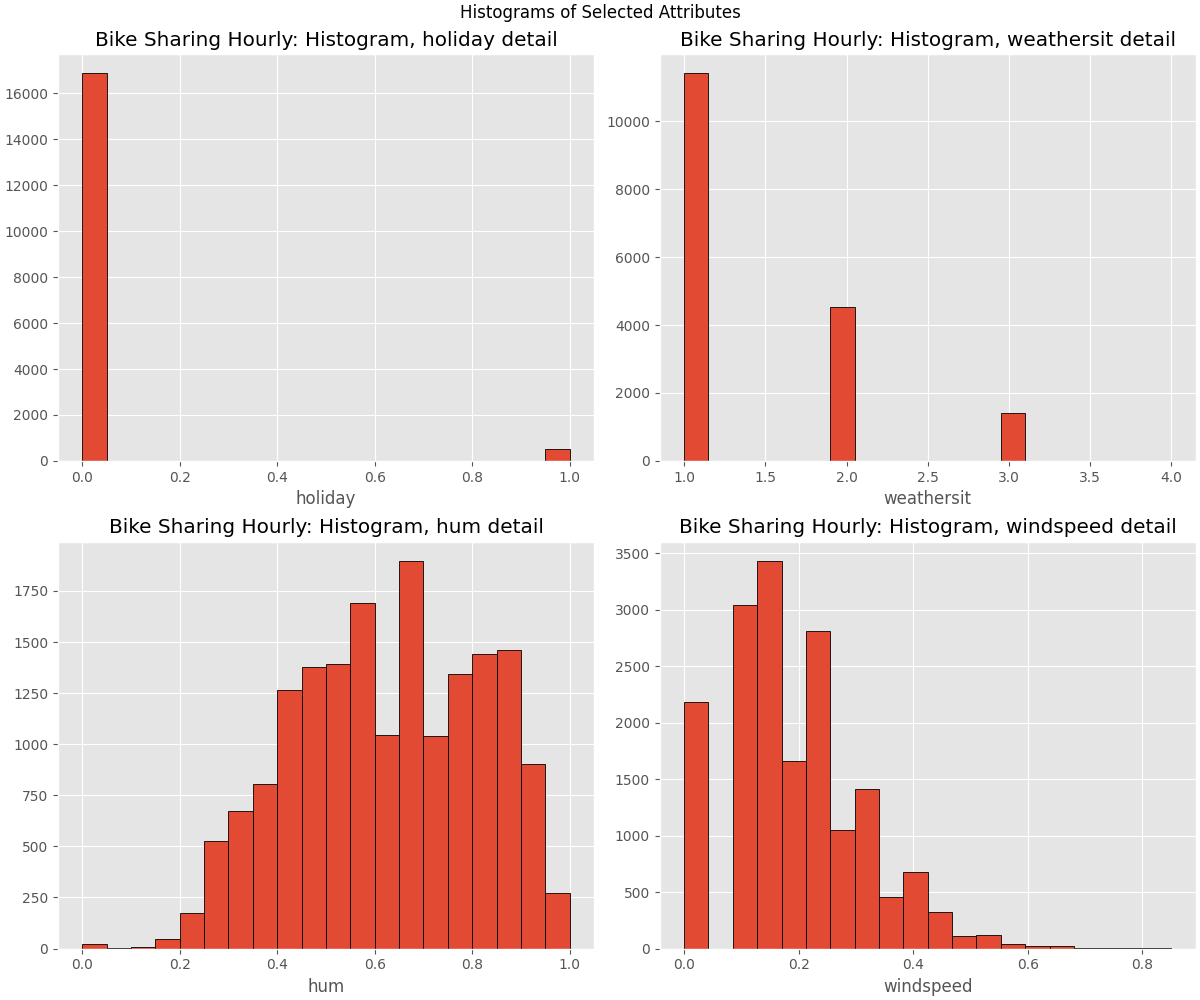
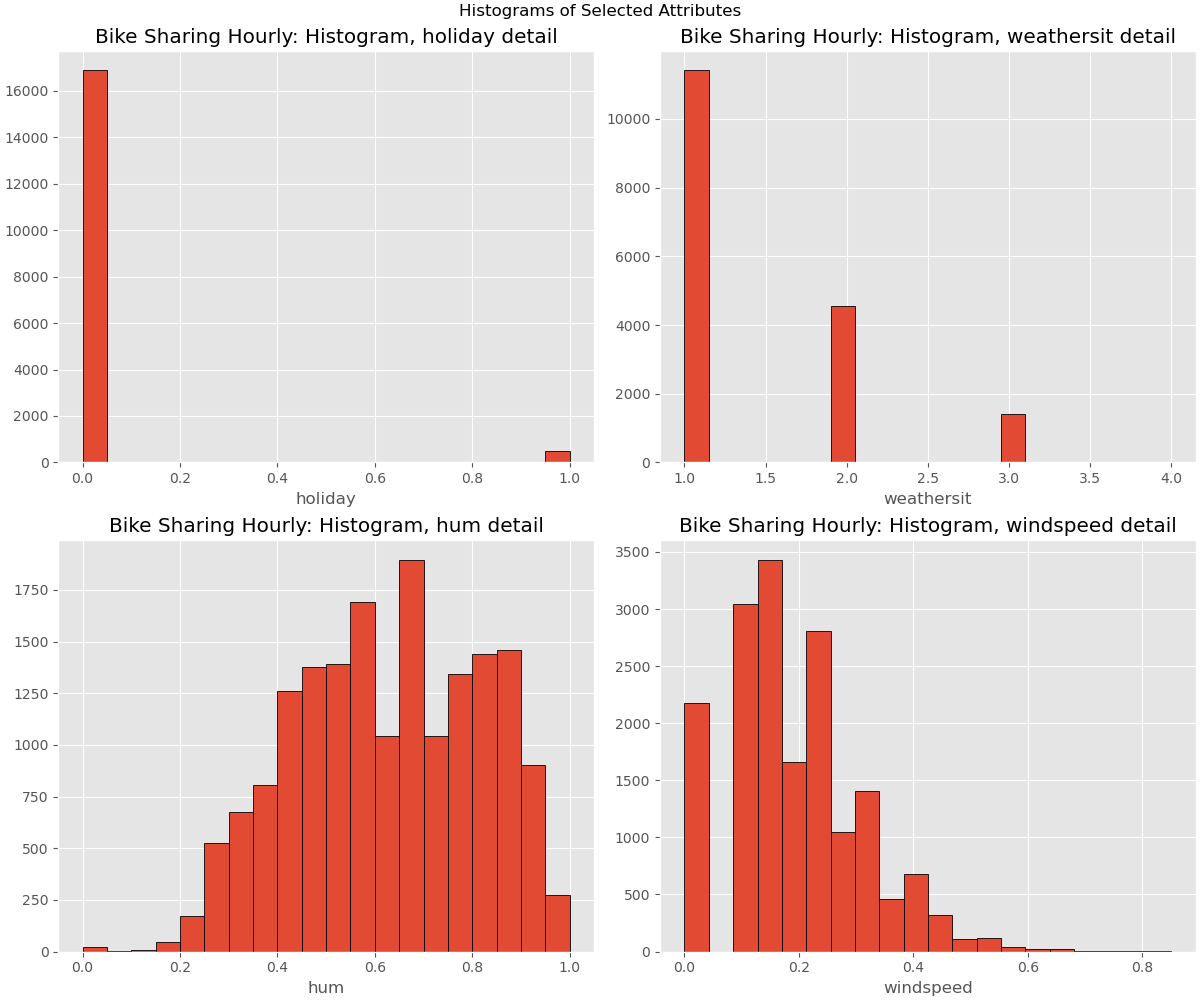
Update .tex and plots

diff --git a/main.tex b/main.tex
@@ -14,6 +14,8 @@
 \usepackage[pdftex,linkcolor=black,pdfborder={0 0 0}]{hyperref} % Format links for pdf
 \usepackage{calc} % To reset the counter in the document after title page
 \usepackage{enumitem} % Includes lists
+\usepackage{hyperref} % url
+
 
 \frenchspacing % No double spacing between sentences
 \linespread{1.2} % Set linespace
@@ -32,9 +34,8 @@
 % Set pdf information and add title, fill in the fields
 %-----------------------
 \hypersetup{ 	
-pdfsubject = {Introduction to Machine learning and Data mining},
-pdftitle = {Project 1},
-pdfauthor = {Nicolò Francesco Resmini - s231858}
+pdfsubject = {02450 - Introduction to Machine Learning and Data mining},
+pdftitle = {Project 1}
 }
 
 %-----------------------
@@ -42,7 +43,15 @@ pdfauthor = {Nicolò Francesco Resmini - s231858}
 %-----------------------
 \begin{document} 
 
+
+
 \title{Introduction to Machine learning and Data mining - Project 1} % Title
+
+
+\begin{figure}
+    \centering
+    \includegraphics[width=0.1\textwidth]{res/dtu_logo.png}
+\end{figure}
 
 % \author{Ivan Antonino Arena - s233352 \\
 %  Nathan Lacour - s232062 \\
@@ -53,60 +62,70 @@ pdfauthor = {Nicolò Francesco Resmini - s231858}
 \maketitle
 \begin{table}
 \centering
-\begin{tabular}{lllll}
- \textbf{Student} & \textbf{ID} & \textbf{§1} & \textbf{§2} & \textbf{§3} \\
- Ivan Antonino Arena & s233352 &  &  &  \\
- Nathan Lacour & s232062 &  &  &  \\
- Nicolò Francesco Resmini & s231858 &  &  & 
+\begin{tabular}{|l|c|c|c|c|c|c|}
+ \hline
+ \textbf{Student} & \textbf{ID} & \textbf{§1} & \textbf{§2} & \textbf{§3} & \textbf{§4} & \textbf{Exam quest.} \\
+ \hline
+ Ivan Antonino Arena & s233352 & 10\%  & 60\%  & 40\%  & 60\% & 33,33\%  \\
+ \hline
+ Nathan Lacour & s232062 & 40\%  & 10\%  & 0\%  & 10\%  & 33,33\%  \\
+ \hline
+ Nicolò Francesco Resmini & s231858 & 50\% & 30\%  & 60\%  & 30\%  & 33,33\% \\
+ \hline
 \end{tabular}
 \end{table}
 
 
+\pagebreak
+\tableofcontents
 
 \pagebreak
 
 \section{Dataset Description}
 
-\subsection{Introduction}
-The dataset that we selected contains data about the use of automatic rental bike; all the process is automatic as bikes are all connected to the net. Thus, it is possible to obtain a lot of interesting information about traffic (the duration of travel, starting position of the bike and its final location). Then, the rental bikes might be used as sensors that would give us knowledge about mobility in the city. \\ 
-Bike-sharing rental process is highly influenced by parameters like the weather or the time of the year.
-Hence in our data set, we know the number of bikes that was rented as well as when it was rented and additional weather related information.\\
-However, when opening the folder containing the data files, we had to choose between 2 files: \textit{day.csv} and \textit{hour.csv}, which have the same fields, except "hour" (0 to 23) which is not available in \textit{day.csv}. Regarding that, we chose to use \textit{hour.csv} since it gives us indeed more information and interesting ones, because the time of the day may strongly influence the number of rental bikes.\\
-Given the data, we will most certainly look at how the weather conditions are correlated to the number of users.
-We found the data set on the website UC Irvine (link below).\\
-\textit{https://archive.ics.uci.edu/dataset/275/bike+sharing+dataset}
+% \subsection{Introduction}
+The dataset that we selected contains data about the use of automatic rental bikes; all the processes are automatic as bikes are all connected to the net, thus it is possible to obtain a lot of interesting information about traffic (the duration of travel, starting position of the bike and its final location). Then, the rental bikes might be used as sensors that would give us knowledge about mobility in the city.
+
+Bike-sharing rental process is highly influenced by parameters like the weather conditions or the time of the year, and in our data set we know the number of bikes that have been rented as well as when they were rented and additional information about the weather.
+
+The data set is available on the UC Irvine website at the following address: \url{https://archive.ics.uci.edu/dataset/275/bike+sharing+dataset}.
+
+The provided folder contained two versions of the dataset: \textit{day.csv} and \textit{hour.csv}, which only differ from one another for the $hr$ column, representing the hour of the day, not available in \textit{day.csv}. In light of this, we chose to use \textit{hour.csv} since it provides more accurate information, as the number of bikes rented in a day might heavily depend on the hour. \\
+
 
 \subsection{Previous analysis of the data}
+The Bike Sharing Dataset has been cited in more than ten scientific papers (referred in the same webpage from which we downloaded the dataset), which clearly demonstrates its breadth and its utility in supporting high-quality research. Therefore, we picked two of those papers and read them carefully to understand how this dataset had been used by the authors in their works.
 
-The Bike Sharing Dataset has been cited in more than ten scientific papers (linked on the same webpage from which we downloaded the dataset), which clearly demonstrates its breadth and its utility in supporting high-quality research. Therefore, we picked two of those papers and read them carefully to understand how this dataset had been used by the authors in their works. \\
-The first one is “Recurrent Neural Networks for Time Series Forecasting” by G'abor Petneh'azi (2019), which presents a recurrent neural network-based time series forecasting framework covering feature engineering, feature importances, point and interval predictions, and forecast evaluation. Briefly, RNNs are essentially neural networks with memory, so they can remember things from the past, which is obviously useful for predicting time-dependent targets. Moreover, the author disregards the available weather information, and uses time-determined features only; he encodes the cyclical features (season of year, month of year, week of year, day of week and hour of day) ,through the use the sine and cosine transformations, and he creates some binary variables, which are used to indicate if the time is afternoon, working hour, holiday, working day. Finally, to perform the value forecasts (regression) he also calculates variable importances by applying two different accuracy metrics (called R2 and MDA). In the end, the author states that he reached good results, although he admits that even this 2-year hourly bike sharing dataset is way too small to exploit the capabilities of a neural network. \\
-Furthermore, the second Paper examined is “D-vine quantile regression with discrete variables” by Niklas Schallhorn, Daniel Kraus, Thomas Nagler, Claudia Czado (2017), which introduces new quantile regression (i.e. the prediction of statistical measures called conditional quantiles) approaches to handle the presence of mixed discrete-continuous data in a dataset, like ours. Indeed, for each day we have continuous covariates temperature (Celsius), wind speed (mph) and humidity (relative in \%); additionally, there is the discrete variable weather situation giving information about the overall weather with values 1 (clear to partly cloudy), 2 (misty and cloudy) and 3 (rain, snow, thunderstorm). Eventually, by applying these new methods, prediction results show some dependencies between the features like “For temperatures higher than 32 degrees Celsius, each additional degree causes a decline in bike rentals” or “Bike rentals increase up to a relative humidity of around 60\% and decrease afterwards”. \\ 
-Both these papers were really helpful to gain a deeper insight into the dataset, by making us look at the dataset from a different perspective and draw inspiration for some implementations of our project.
+The first one is “\textit{Recurrent Neural Networks for Time Series Forecasting}” by G'abor Petneh'azi (2019), which presents a recurrent neural network-based time series forecasting framework covering features engineering, features importance, points and intervals predictions, and forecast evaluations. Briefly, RNNs are essentially neural networks with memory, so they can remember things from the past, which is obviously useful for predicting time-dependent targets. Moreover, the author disregards the available weather information, and uses time-determined features only; he encodes the cyclical features (season of year, month of year, week of year, day of week and hour of day) through the use the sine and cosine transformations and he creates some binary variables, which are used to indicate if the time is afternoon, working hour, holiday, working day. 
+Finally, to perform the value forecasts (regression) he also calculates variables importance by applying two different accuracy metrics (called R2 and MDA). In the end, the author states that he has reached good results, although he admits that even this 2-year hourly bike sharing dataset is way too small to exploit the capabilities of a neural network.
 
- \subsection{Techniques}
-With these data, we might be able to establish a model to estimate how much people would rent a bike on a given day with given weathers conditions. This could indeed be useful for the people in charge of managing the city accommodations or planning events.
+The second Paper examined is “\textit{D-vine quantile regression with discrete variables}” by Niklas Schallhorn, Daniel Kraus, Thomas Nagler, Claudia Czado (2017), which introduces new quantile regression (i.e. the prediction of statistical measures called conditional quantiles) approaches to handle the presence of mixed discrete-continuous data in a dataset, like ours. In fact, for each day we have continuous covariates temperature (Celsius), wind speed (mph) and humidity (relative in \%); additionally, there is the discrete variable weather situation giving information about the overall weather with values 1 (clear to partly cloudy), 2 (misty and cloudy) and 3 (rain, snow, thunderstorm). Eventually, by applying these new methods, prediction results show some dependencies between the features like “\textit{for temperatures higher than 32 degrees Celsius, each additional degree causes a decline in bike rentals}” or “\textit{bike rentals increase up to a relative humidity of around 60\% and decrease afterwards}”. 
+
+Both these papers were really helpful to gain a deeper insight into the dataset, by making us look at the dataset from a different perspective and draw inspiration for some possible implementations of our project. \\
+
+\subsection{Techniques}
+With this data, we might be able to train a model to estimate how many people would rent a bike on a certain day with given weathers conditions. This could be useful for the people in charge of managing the city accommodations or planning events.
 
 \begin{itemize}
 
-\item Regression: \\
- 1) Input : holyday/working day?, month/season, hour,date, weather
-    Output : number of users (casual, registered or total)
-    we have only two years so month might not be good since we only have 2 time each month
+\item \textbf{Regression:} by looking at the data it appears to us that the output that fits the regression task the best would be the number of users (either casual, registered or total), since, for example, it might be useful to get information about traffic congestion in the city. Moreover, we can also use almost all the other attributes as predictors ($weekday$, $workingday$, $holiday$, $mnth$, $hr$, $weathersit$, $temp$, $atemp$, $hum$, $windspeed$). 
 
-    
-    transformation continuous ?
-    
-    \item  Classification: \\
- 1) Input : windspeed, temperature, number of users, humidity \\
-    Output : Weather
-    
- 2) Input : windspeed, temperature, number of users, humidity, weather \\
-    Output : season
-    
- 3) Input :
-    Ouput : month  \\
-    we have only two years so month might not be good since we only have 2 time each month, a better option could be the day of the weeks.
+% TODO: change weathersit with atemp??
+\item \textbf{Classification:} while it might not be the primary scope of our problem of interest, the most obvious choice at first glance would be to try to perform classification on the $weathersit$ attribute, for instance, using as features the attributes $temp$, $atemp$, $hum$, $windspeed$ and the time of the year ($mnth$ or $season$). 
+
  
+\end{itemize}
+
+\subsection{Pre-processing}
+In order to carry out these tasks, after carefully analyzing our dataset, we decided to perform some pre-processing steps, which are both helpful to perform more accurate data-visualization and fundamental for the application of the techniques in the second project of this course.\\
+Here are the solutions we opted for:
+
+\begin{itemize}
+    \item removing the useless attribute $instant$, which provides a unique integer identifier for every observation of the dataset in sequential order;
+    \item removing the attribute $yr$ (year), because it's a binary variable (0: 2011, 1:2012) and since it only represent two consecutive years we think it's negligible; 
+    \item removing the attribute $dteday$ (date) because it's redundant, since we already have the date represented through other attributes ($weekday$, $mnth$, $yr$, $season$, $holilday$, $workingday$);
+    \item applying the Square-Root transformation to the attribute $cnt$, which is the count of total rental bikes including both casual and registered, to transform it in a continuous variable (by using the \textit{sqrt} function) to perform regression on it. As it is also explained in the paper "\textit{Anchor regression: heterogeneous data meet causality}" (Rothenhausler et al., 2020), this is a common procedure and fits reasonably well the assumptions to make it valid;
+    \item removing the attributes $casual$ and $registered$, which became deprecated after the square-root transformation of $cnt$, since $cnt$ was equal to the sum of the two attributes.
 \end{itemize}
 
 
@@ -118,36 +137,61 @@ With these data, we might be able to establish a model to estimate how much peop
 
 \subsection{Attributes list}
 
+\begin{center}
+\begin{tabular}{|l|c|c|p{7cm}|}
+\hline
+\textbf{Attribute} & \textbf{Type} & \textbf{Measurement} & \textbf{Description} \\
+\hline
+instant & Discrete & Interval & Number of the observation. \\
+\hline
+dteday & Discrete & Interval & Date in YYYY-MM-DD format. \\
+\hline
+season & Discrete & Nominal & Encoded seasons (1: Winter, 2: Spring, 3: Summer, 4: Fall). \\
+\hline
+yr & Discrete & Nominal & Year (0: 2011, 1: 2012). \\
+\hline
+mnth & Discrete & Nominal & Number of the month in year. \\
+\hline
+hr & Discrete & Interval & Hour in day (24 hours). \\
+\hline
+holiday & Discrete & Nominal & 1 if day is holiday, else 0. \\
+\hline
+weekday & Discrete & Nominal & Number of day in week. \\
+\hline
+workingday & Discrete & Nominal & 1 if day is working day, else 0. \\
+\hline
+weathersit & Discrete & Ordinal & Encoded weather situation (1: Clear, Few clouds, Partly cloudy, Partly cloudy, 2: Mist + Cloudy, Mist + Broken clouds, Mist + Few clouds, Mist, 3: Light Snow, Light Rain + Thunderstorm + Scattered clouds, Light Rain + Scattered clouds, 4: Heavy Rain + Ice Pallets + Thunderstorm + Mist, Snow + Fog). \\
+\hline
+temp & Continuous & Ratio & Normalized temperature in Celsius. The values are derived via (t-t\_min)/(t\_max-t\_min), t\_min=-8, t\_max=+39 (only in hourly scale). \\
+\hline
+atemp & Continuous & Ratio & Normalized feeling temperature in Celsius. The values are derived via (t-t\_min)/(t\_max-t\_min), t\_min=-16, t\_max=+50 (only in hourly scale). \\
+\hline
+hum & Continuous & Ratio & Normalized humidity. The values are divided to 100 (max). \\
+\hline
+windspeed & Continuous & Ratio & Normalized wind speed. The values are divided to 67 (max). \\
+\hline
+casual & Discrete & Ratio & Count of casual users. \\
+\hline
+registered & Discrete & Ratio & Count of registered users. \\
+\hline
+cnt & Discrete & Ratio & Count of total rental bikes including both casual and registered. \\
+\hline
+\end{tabular}
+\end{center}
 
-\begin{itemize}
-    \item \textbf{instant}: discrete, interval;
-    \item \textbf{dteday}: discrete, interval;
-    \item \textbf{season}: discrete, nominal;
-    \item \textbf{yr}: discrete, nominal;
-    \item \textbf{mnth}: discrete, nominal;
-    \item \textbf{hr}: discrete, interval; 
-    \item \textbf{holiday}: discrete, nominal;
-    \item \textbf{weekday}: discrete, nominal;
-    \item \textbf{workingday}: discrete, nominal;
-    \item \textbf{wheatersit}: discrete, ordinal;
-    \item \textbf{temp}: continous, ratio;
-    \item \textbf{atemp}: continous, ratio;
-    \item \textbf{hum}: continous, ratio;
-    \item \textbf{windspeed}: continous, ratio;
-    \item \textbf{casual}: discrete, ratio;
-    \item \textbf{registered}: discrete, ratio;
-    \item \textbf{cnt}: discrete, ratio;
-\end{itemize}
+
+
 
 \subsection{Data issues}
 
-After carefully analyzing the dataset, we can confidently say that there are no missing values or corrupted data, therefore no statistical techniques to replace eventual missing values with reasonable approximations should be performed; to verify, the same conclusion has been reached in the paper “VINE: Visualizing Statistical Interactions in Black Box Models” by Matthew Britton (2019).
+After carefully analyzing the dataset, we can confidently say that there are no missing values or corrupted data, therefore no statistical techniques to replace eventual missing values with reasonable approximations should be performed. As a confirmation, the same conclusion has been reached in the paper “\textit{VINE: Visualizing Statistical Interactions in Black Box Models}” (Matthew Britton, 2019).
 
 \subsection{Summary statistics}
 
+
 \begin{figure}[H]
     \centering
-    \includegraphics[width=\textwidth, height=0.3\textwidth]{res/summary.png}
+    \includegraphics[width=\textwidth]{res/statistics_summary.png}
     \caption{Summary statistics for the dataset.}
     \label{fig:summary}
 \end{figure}
@@ -158,28 +202,22 @@ After carefully analyzing the dataset, we can confidently say that there are no 
 
 \subsection{Outliers}
 
-By plotting all data in a box plot we can clearly see that the only outliers seem to be on the attributes $holiday$ and $weathersit$; however this attributes are respectively nominal and ordinal and only take two and four values, therefore we could ignore the $holiday$ attribute, since the number of holidays is negligible and convert all the entries with value $= 4$ in the $weathersit$ attribute to the value $= 3$, for the same reason. In this way, all outliers value will be taken care of.
+
+By standardizing all data and plotting them to a box plot, there appear some possible outliers: $holiday$, $weathersit$, $hum$, $windspeed$.
+We can soon exclude any issue with the $holiday$ attribute because it's binary, therefore explaining the suspicious result in the plot. After a further examination of the attributes, we decided to keep the other three attributes as they are, despite the evident discrepancies in the values, because they represent physical phenomena and we don't know how they have been measured, thus we assume that the values are all truthful. \\
+In addition, we have plotted histograms regarding the outliers distributions for these attributes, which can be found in Appendix \ref{appendix:plots}.
 
 \begin{figure}[H]
     \centering
-    \includegraphics[width=\linewidth]{res/plots/boxplot_standardized.png}
+    \includegraphics[width=1.0\linewidth]{res/plots/boxplot_standardized.png}
     \caption{Standardized boxplot of the dataset.}
     \label{fig:boxplot}
 \end{figure}
 
 
-
-% you can't really see in weathersit hist that 4 has 3 values, should we modify the plot?
-
-\begin{figure}[H]
-    \centering
-    \includegraphics[width=0.7\linewidth]{res/plots/hist_outliers.png}
-    \caption{Histograms detail of \textit{holiday} and \textit{weathersit} attributes.}
-    \label{fig:hist_detail}
-\end{figure}
-
 \subsection{Normal distribution}
-The data appears to be normally distributed being plotted in a histogram with number of samples = 1000, mean = 5 and standard deviation = 2
+
+As a consequence of being visualized in a histogram comprised of 1000 data samples, with a theoretical mean of 0 and a theoretical standard deviation of 2, the dataset reasonably showcases a bell-shaped, symmetrical distribution, resembling the characteristic shape of a normal distribution curve. This empirical observation suggests that the data adheres enough to the theoretical model of a normal distribution.
 
 \begin{figure}[H]
     \centering
@@ -190,29 +228,69 @@ The data appears to be normally distributed being plotted in a histogram with nu
 
 \subsection{Correlation}
 
-In the following scatter plots, we check for correlation between the $cnt$ attribute and some of the most promising attributes: $season$, $mnth$, $hr$, $weekday$, $workingday$, $weathersit$, $temp$, $atemp$, $hum$, $windspeed$. 
+We have generated a comprehensive correlation heat-map to explore the interrelationships among the attributes within our dataset. This graphical representation serves as a valuable tool, offering us a valuable perspective on how various variables are associated.
+
+Upon close examination, it becomes evident that the most pronounced correlations are observed between $cnt$ and $hr$, $temp$, $atemp$, and $hum$. These strong associations imply that $cnt$ could be a highly suitable choice as the target variable in any subsequent regression analysis, given its discernible connection with these predictor variables. 
+
+We have also noticed that, among the candidate attributes for classification, both $temp$ and $atemp$ (which represent, respectively, the actual and perceived temperature) exhibit noteworthy correlations with attributes such as $season$, $mnth$, $hr$ and $cnt$: this observation suggests that either one of these two attributes could be promising candidates for the output variable in a classification task.
+
+However, it's important to note that $temp$ and $atemp$ are normalized continuous variables, therefore there will be the need to transform one of them into a discrete variable to make it suitable for the classification tasks.
+
 
 \begin{figure}[H]
     \centering
-    \includegraphics[width=\linewidth]{res/plots/correlation.png}
-    \caption{Scatter plots of $cnt$ against other promising attributes.}
-    \label{fig:correlation}
+    \includegraphics[width=0.9\linewidth]{res/plots/correlation_heatmap.png}
+    \caption{Heat-map of the correlation between attributes.}
+    \label{fig:correlation_heatmap}
 \end{figure}
 
+Furthermore, we took a closer look to attributes with the highest correlation with $cnt$, plotting them to scatter plots to have a clearer overview of the trends. These plots can be found at the end of this document, in Appendix \ref{appendix:plots}.
 
-\subsection{Conclusions}
+\subsection{PCA}
 
-The plots show probable correlation between $cnt$ and most of the other attributes, thus performing regression on $cnt$ as the $y$-variable could bring good results.
+To gain deeper insights into the underlying structure of our dataset, we have employed Principal Component Analysis (PCA), which is a powerful feature extraction technique that allows us to visualize and explore the patterns and relationships within high-dimensional data.
+Before performing it, we standardized the data by adjusting for differing scales among attributes before plotting the various PCA analysis.
 
-% maybe we should also mention classification?  
+First of all, we created a plot that illustrates the amount of variation explained as we progressively include additional PCA components. This visual representation provided us with valuable information about the dimensionality reduction and the retained information when selecting different numbers of PCA components.
 
+\begin{figure}[H]
+    \centering
+    \includegraphics[width=0.8\linewidth]{res/plots/variance_explained.png}
+    \caption{Variation explained as a function of the number of PCA
+components included.}
+    \label{fig:/variance_explained}
+\end{figure}
 
+As we can see from the plot above, to reach the threshold of 90\% cumulated variance we need to include at least the first 8 principal components.
 
+Moreover, in pursuit of a deeper understanding of our dataset's structure, we needed to visualize the principal directions associated with the considered PCA components. The plot below enabled us to gain insights into the primary axes of variation captured by PCA, providing valuable information about the dominant patterns and relationships within our data.
+
+\begin{figure}[H]
+    \centering
+    \includegraphics[width=0.7\linewidth]{res/plots/pca_components.png}
+    \caption{Principal directions of the considered PCA components.}
+    \label{fig:/pca_components}
+\end{figure}
+
+In the end, we have plotted the data projected onto the two most significant principal components, which allows us to explore the dataset in a reduced-dimensional space, shedding light on how the data distributes and varies along these principal axes.
+
+\begin{figure}[H]
+    \centering
+    \includegraphics[width=0.7\linewidth]{res/plots/pca_projected.png}
+    \caption{Data projected onto the first two principal components.}
+    \label{fig:/pca_projected}
+\end{figure}
 
 
 \section{Conclusion}
 
+Overall, the Bike Sharing Dataset (hourly) appears to be suitable for supervised learning. The absence of outliers or noise make it a high quality dataset, furthermore, most of the attributes come already scaled and normalized, allowing the data engineering operations to be minimal on our part, consisting only in ignoring some of the attributes because of redundancy ($dteday$, $casual$, $registered$) or irrelevance($instant$, $yr$) and applying the square root to the $cnt$ attribute to make it continous, therefore suitable as a target variable for linear regression.
+Given our visualizations, the dataset also appears to be normally distributed and featuring relevant levels of correlation between some of the attributes allowing it to be used optimistically for regression and classification tasks.  For the regression task, for instance, we could use the $cnt$ attribute as a target variable, as it appears to be highly correlated with $hr$, $temp$, $atemp$ and $hum$. As per the classification task, contrary to our belief stated in §1, the attributes $temp$ or $atemp$ seem to be more promising attributes than $wheatersit$.
+Finally, the only potential drawback to the dataset is that, despite the high number of observations, the data has been collected over the span of two years, thus potentially penalizing an eventual model in seeing long-term trends or cyclical patterns.
 
+\pagebreak
+\appendix
+\label{appendix:ex}
 \section{Exercises solutions}
 
 \subsection{Question 1}
@@ -223,30 +301,50 @@ $x_1$ is interval because it describes 30-minute intervals, therefore the distan
 
 \subsection{Question 2}
 
-\paragraph*{Answer:} A
+\paragraph*{Answer:} A.
 \paragraph*{Solution:} the $\infty$-norm distance between $x_{14}$ and $x_{18}$ is 7.0 because it's indeed the maximum of the absolute value of the differences between the coordinates of the two vectors: max\{|26-19|, |2-0|, 0\} = 7.0
 
 
 \subsection{Question 3}
 
-\paragraph*{Answer:} A
+\paragraph*{Answer:} A.
 \paragraph*{Solution:} the variation explained by each principal component is given by $\frac{\sigma_i^2}{\sum_{i'} \sigma_{i'}^2}$, where $\sigma_i$ is the singular value related to the principal component $i$. In this case: $\frac{13.9^2+12.47^2+11.48^2+10.03^2}{13.9^2+12.47^2+11.48^2+10.03^2+9.45^2} = 0,867 > 0,8$
 
 \subsection{Question 4}
 
-\paragraph*{Answer:}
-\paragraph*{Solution:} 
+\paragraph*{Answer:} D
+\paragraph*{Solution:}  The columns of V represents the directions of each PCA. Given that fact, an observation would have a positive value of the projection onto a
+principal component if each of its components have the same signs as the components of the eigenvector related to the principal component in question. Moreover, since we substract the mean value of each caracteristic , a low value mean that the projection will have a negative component for that caracteristic, in the same way, a high value will give a positive component. If we follow that logic the only fitted answer is D.
 
 \subsection{Question 5}
 
-\paragraph*{Answer:}
-\paragraph*{Solution:} 
+\paragraph*{Answer:} A.
+\paragraph*{Solution:} The formula for Jaccard similarity is the following: $J(x,y) = \frac{f_{11}}{K-f_{00}}$, where $K = M = 20000$, $f_{11} = 2$ because it's the number of words present in both $s_1$ and $s_2$ ("the", "words"), $f_{00} = 20000 - 13 = 19987$ because it's the number of words that are missing in both $s_1$ and $s_2$, therefore all the words except the ones that are present counted only once ("the", "bag", "of", "words", "representation", "becomes", "less", "parsimoneous", "if", "we", "do", "not", "stem"). Thus, $J(x,y) = \frac{f_{11}}{K-f_{00}} = \frac{2}{20000 - 19987}= \frac{2}{13} = 0.153846$. 
 
 \subsection{Question 6}
 
-\paragraph*{Answer:}
-\paragraph*{Solution:} 
+\paragraph*{Answer:} B
+\paragraph*{Solution:} If we consider that $P(B|C) = P(AB|C) + P(\overline{A}B|C)$ and given the binary nature of $x_2$ and $x_7$ we get that $P(x_2 = 0 | y = 2) = P(x_2 = 0, x_7 = 0 | y = 2) + P(x_2 = 0, x_7 = 1 | y = 2) $ considering that $A = "x_7 = 0"$, $\overline{A} = "x_7 = 1"$, $B = "x_2 = 0"$ and $C = "y = 2"$.
 
+\section{Additional Plots}
+\label{appendix:plots}
+\subsection{Distribution of outliers}
+
+\begin{figure}[H]
+    \centering
+    \includegraphics[width=1\linewidth]{res/plots/hist_multiple_attributes.png}
+    \caption{Histograms detail of \textit{holiday}, \textit{weathersit}, \textit{hum} and \textit{windspeed} attributes.}
+    \label{fig:hist_detail}
+\end{figure}
+
+\subsection{Correlation between $cnt$ and some attributes}
+
+\begin{figure}[H]
+    \centering
+    \includegraphics[width=\linewidth]{res/plots/correlation.png}
+    \caption{Scatter plots of $cnt$ against $hr$, $temp$, $atemp$ and $hum$.}
+    \label{fig:correlation}
+\end{figure}
 
 \end{document}
 
